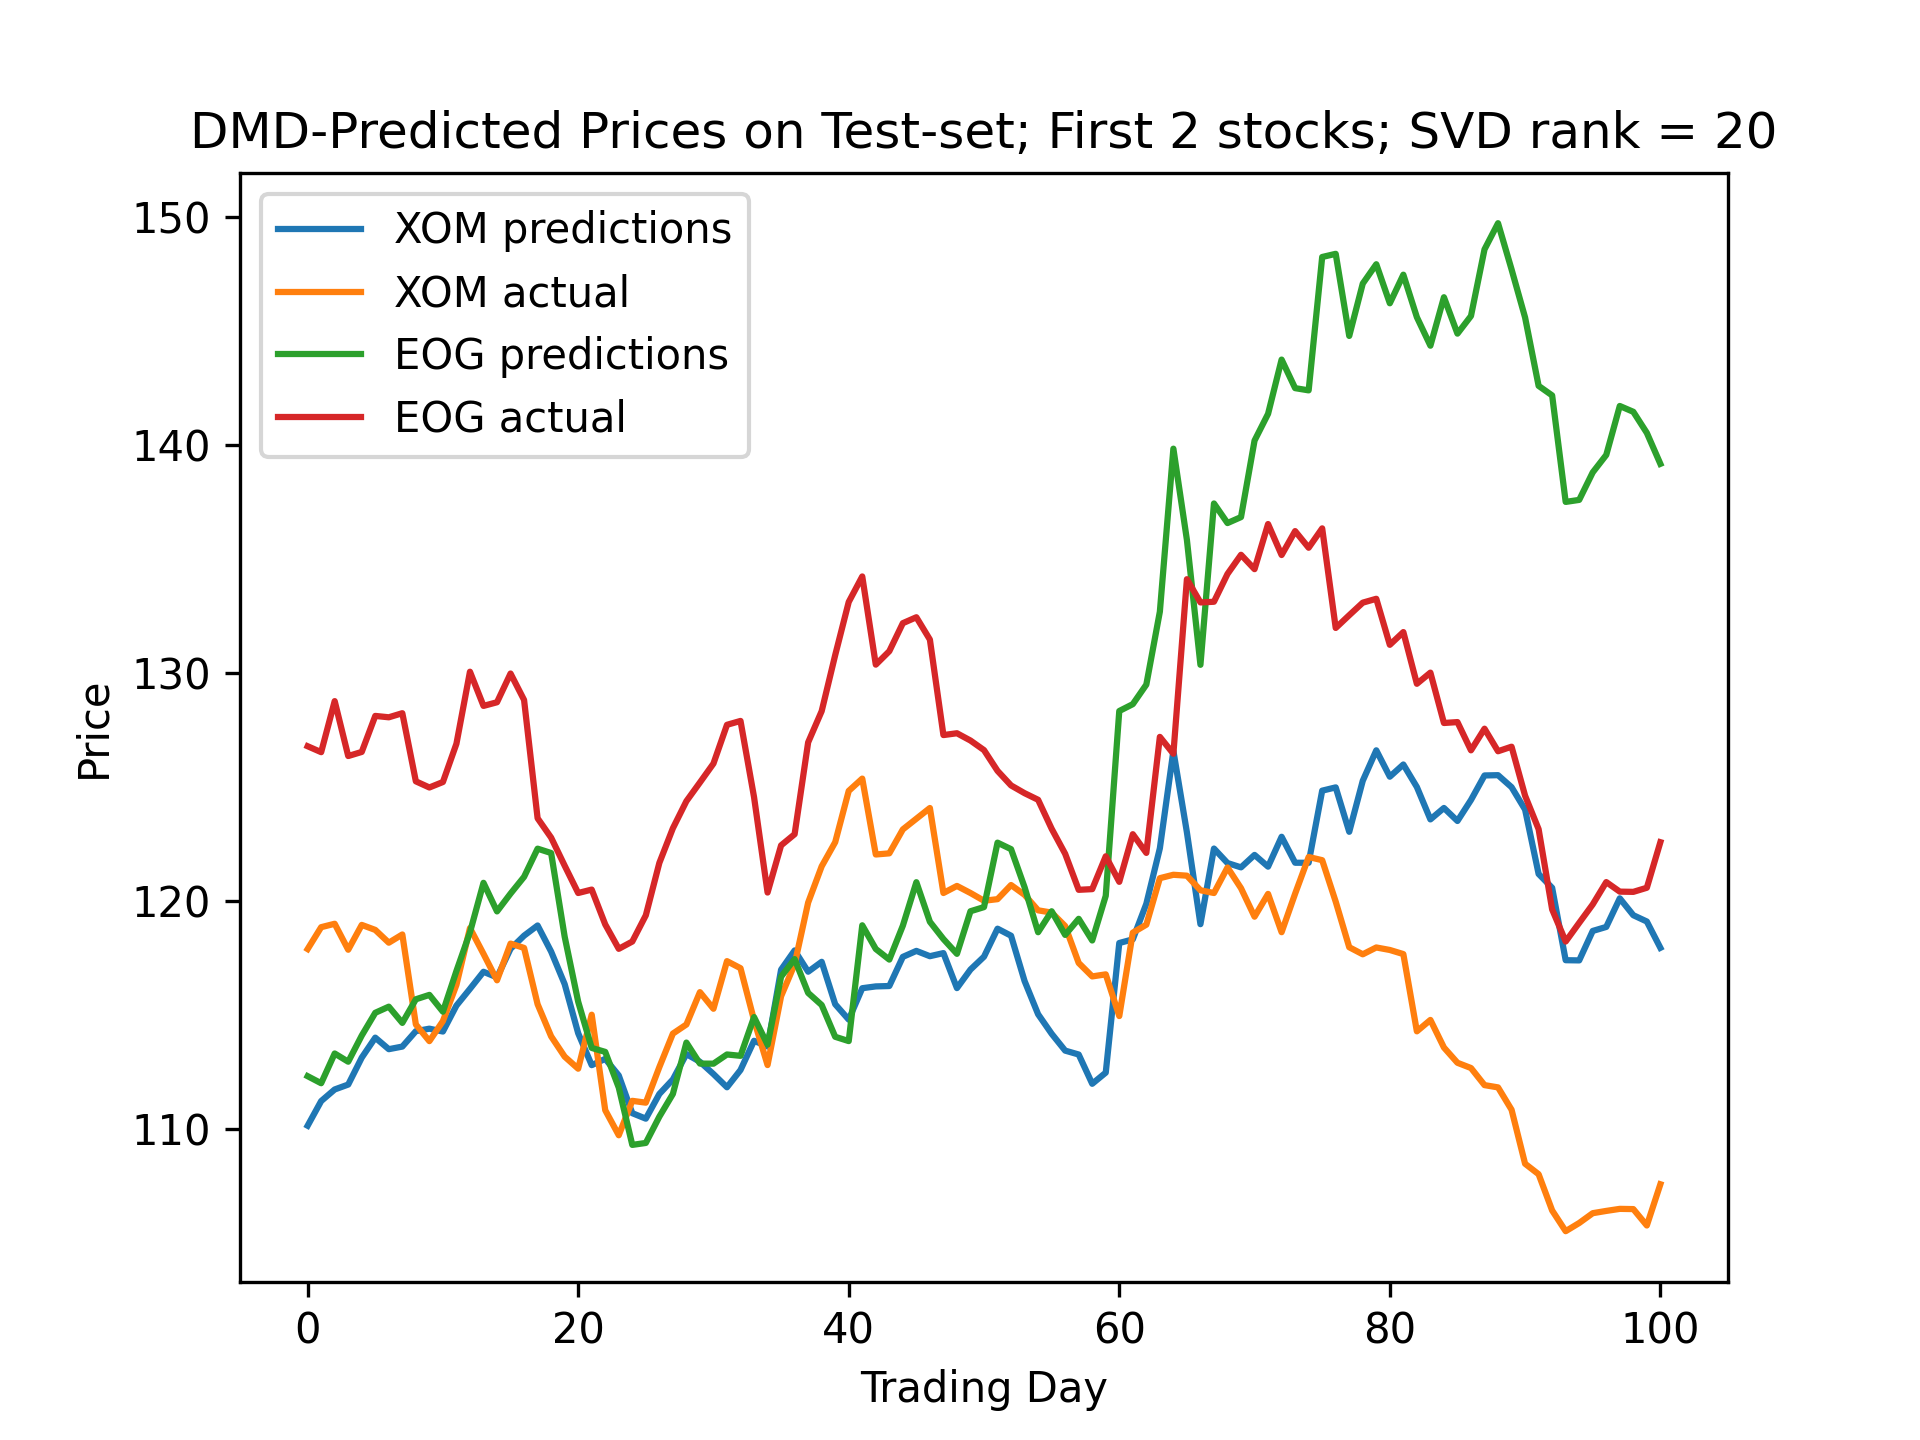
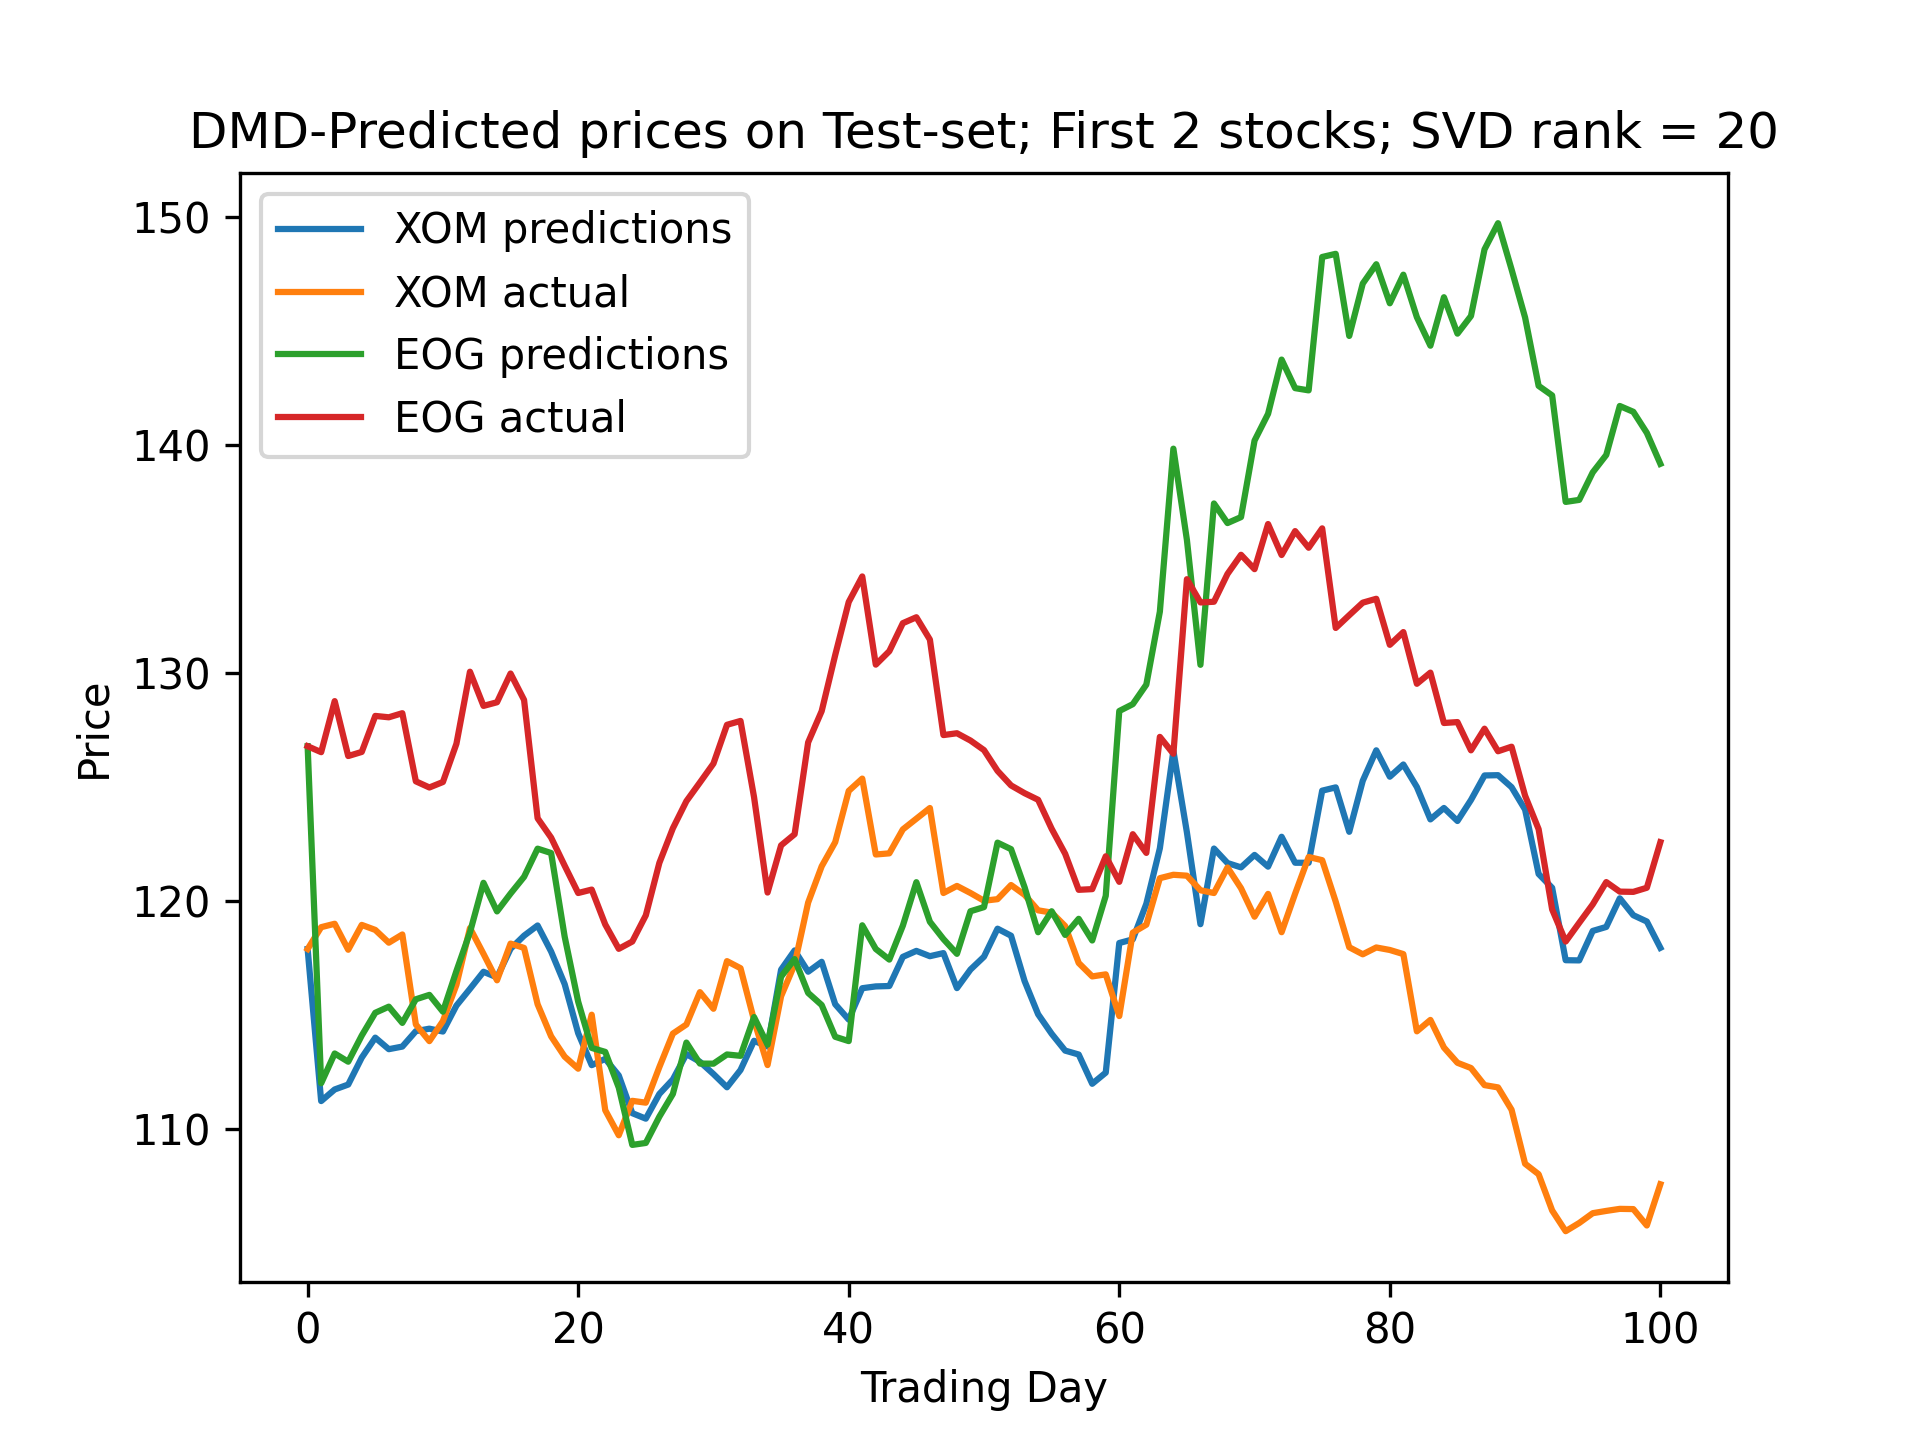
refactor dmd code

diff --git a/DMD.py b/DMD.py
@@ -92,43 +92,6 @@ def train_test_split(X, train_percentage=0.95):
     X_test = X[:, T_train:]
     return X_train, X_test, T_train, T_test
 
-# def train_test_windows(X, T_window):
-#     '''
-#     divide entire time series into equalsized windows (except the last window which may not be of equal size)
-#     where each window alternates between being assigned as a training and test
-
-#     X : (N, T_tot) numpy array
-#     T_window : int, desired length of each window (the last window of testing may be shorter than T_window)
-
-#     returns:
-#         X_train_windows : list of (N, T_train) numpy arrays
-#         X_test_windows : list of (N, T_test) numpy arrays
-#         T_train_windows : (len:num_windows) list of ints (lengths of the corresponding training windows)
-#         T_test_windows : (len:num_windows) list of ints (lengths of the corresponding test window)
-#     '''
-#     # LOGIC HERE IS NOT RIGHT; NEED TO FIX
-#     N, T_tot = X.shape
-#     num_full_windows = T_tot // T_window
-#     last_additional_window_length = T_tot - num_full_windows * T_window
-#     X_train_windows = []
-#     X_test_windows = []
-#     T_train_windows = []
-#     T_test_windows = []
-#     for i in range(num_full_windows-1):
-#         X_train_windows.append(X[:, i*T_window:(i+1)*T_window])
-#         X_test_windows.append(X[:, (i+1)*T_window:(i+2)*T_window])
-#         T_train_windows.append(T_window)
-#         T_test_windows.append(T_window)
-#     # add the last guaranteed full window which would be a train set
-#     X_train_windows.append(X[:, (num_full_windows-1)*T_window:])
-#     T_train_windows.append(T_window)
-#     # deal with remainder if nonzero, which would be the final test set
-#     if last_additional_window_length != 0:
-#         X_test_windows.append(X[:, -last_additional_window_length:])
-#         T_test_windows.append(last_additional_window_length)
-
-#     return X_train_windows, X_test_windows, T_train_windows, T_test_windows
-
 
 ######### manual dmd algorithm implementation ###############################
 
@@ -154,7 +117,6 @@ def DMD_manual(snapshots, svd_rank):
     U, S, VT = np.linalg.svd(X, full_matrices=True)
     # U and the Hermitian transpose of VT are 2D arrays with orthonormal columns and S is a 1D array of Y's singular values
     # when X has shape (N, M-1), if full_matrices=True, U and VT have the shapes (N, N) and (M-1, M-1)
-
 
     # compute the truncated SVD of X: get the first r columns of U, the upperleft rxr block, the first r rows of VT
     U_trunc = U[:, :svd_rank]
@@ -184,9 +146,9 @@ def DMD_manual(snapshots, svd_rank):
     Lambda, W = np.linalg.eig(Atilde)
     # column W[:,i] is the eigenvector w corresponding to the eigenvalue Lambda[i].
 
-    # check if there are complex values in Lambda
-    if np.any(np.iscomplex(Lambda)):
-        print("There are complex values in Lambda")
+    # # check if there are complex values in Lambda
+    # if np.any(np.iscomplex(Lambda)):
+    #     print("There are complex values in Lambda")
     
     if np.any(np.iscomplex(Abar)):
         print("There are complex values in Abar")
@@ -207,6 +169,101 @@ def DMD_manual(snapshots, svd_rank):
     # column DMD_modes[:,i] is the dynamic mode corresponding to the eigenvalue Lambda[i].
     return Abar, Lambda, DMD_modes
 
+
+
+def DMD_fit_predict_evaluate(all_train_snapshots, test_snapshots, chosen_rank, dmd_fitting_window_length, prices_as_state=True, num_stocks_plot=2, plot_DMD_modes_summary=False):
+    """
+    all_train_snapshots: (N, T_train_all) numpy array, total training set available
+        (only [T_train_all - dmd_fitting_window_length] number of these snapshots are used for actual training)
+    
+    test_snapshots: (N, T_test) numpy array, test set
+    
+    chosen_rank: int, the number of singular values to keep in the truncated SVD of the actual training snapshots
+    
+    dmd_fitting_window_length: int, the number of snapshots to use for the actual training
+    
+    prices_as_state: bool, whether to use prices as the state variable for the DMD model; if false, indicates returns are used
+    
+    num_stocks_plot: int, the number of stocks to show in the test predictions plots
+    
+    plot_DMD_modes_summary: bool, whether to plot the summary of the key spatiotemporal modes using PyDMD
+    """
+    if prices_as_state:
+        snapshots_quantity_name= 'prices'
+    else:
+        snapshots_quantity_name = 'ret'
+
+    N, T_train_all = all_train_snapshots.shape
+    _, T_test = test_snapshots.shape # number of snapshots in the test set
+
+    T_train = T_train_all - dmd_fitting_window_length # number of snapshots used for actual training
+
+    train_snapshots = all_train_snapshots[:, -dmd_fitting_window_length:] # set used for actual training
+
+    if plot_DMD_modes_summary:
+        # Build an exact DMD model with <chosen_rank> spatiotemporal modes
+        pydmd_model = DMD(svd_rank=chosen_rank, exact=True)
+        # Fit the DMD model
+        pydmd_model.fit(train_snapshots)
+        # Plot a summary of the key spatiotemporal modes
+        plot_summary(pydmd_model, figsize=(12,9), title_fontsize=8, label_fontsize=6, max_sval_plot=50)
+    
+    # compute the DMD modes manually
+    Abar, Lambda, DMD_modes = DMD_manual(train_snapshots, chosen_rank)
+
+    # create input snapshots matrix for test set
+    test_input_snapshots = test_snapshots[:, :-1] # shape: (N, T_test-1)
+    # create input snapshots matrix for train set
+    train_input_snapshots = train_snapshots[:, :-1] # shape: (N, T_train-1)
+
+    # make predictions on test set
+    # one_step_ahead_predicted_test_snapshots = pydmd_model.predict(test_input_snapshots)
+    test_one_step_ahead_predicted_snapshots = Abar @ test_input_snapshots
+    # make predictions on train set
+    train_one_step_ahead_predicted_snapshots = Abar @ train_input_snapshots
+
+    # check if there are complex valued predictions
+    if np.any(np.iscomplex(test_one_step_ahead_predicted_snapshots)):
+        print("There are complex valued predictions for test set")
+    if np.any(np.iscomplex(train_one_step_ahead_predicted_snapshots)):
+        print("There are complex valued predictions for train set")
+
+    if num_stocks_plot > 0:
+        # concatenate the first test snapshot to the beginning of the predicted test snapshots 
+        test_predictions_with_inital = np.concatenate((test_snapshots[:,0:1], test_one_step_ahead_predicted_snapshots), axis=1) # shape: (N, T_test), only for plotting purposes
+
+        # plot the predicted test snapshots
+        fig, ax = plt.subplots()
+        for i in range(num_stocks_plot):
+            ax.plot(np.arange(T_test), test_predictions_with_inital.T[:,i], label=f'{tickers[i]} predictions') # predictions
+            ax.plot(np.arange(T_test), test_snapshots.T[:,i], label=f'{tickers[i]} actual') # actual
+        ax.set_title(f'DMD-Predicted {snapshots_quantity_name} on Test-set; First {num_stocks_plot} stocks; SVD rank = {chosen_rank}')
+        ax.set_xlabel('Trading Day')
+        if prices_as_state:
+            ax.set_ylabel('Price')
+        else:
+            ax.set_ylabel('Return')
+        ax.legend()
+        fig.savefig(f'figures/ExactDMD_{snapshots_quantity_name}_svdrank{chosen_rank}_{portfolio_name}_testsetpredictions_fittingwindowlen{dmd_fitting_window_length}.png', dpi=300)
+        plt.close(fig)
+
+    print("svdrank: ", chosen_rank)
+    print("dmd_fitting_window_length: ", dmd_fitting_window_length)
+
+    # compute goodness of fit metrics on the training data and loss against the test data
+    # compute mean squared error
+    MSE_training = np.mean((train_one_step_ahead_predicted_snapshots - train_snapshots[:,1:])**2)
+    MSE_test = np.mean((test_one_step_ahead_predicted_snapshots - test_snapshots[:,1:])**2)
+    RMSE_training = np.sqrt(MSE_training)
+    RMSE_test = np.sqrt(MSE_test)
+    print(f'RMSE_training: {RMSE_training}, RMSE_test: {RMSE_test}')
+
+    # mean absolute error (MAE)
+    MAE_training = np.mean(np.abs(train_one_step_ahead_predicted_snapshots - train_snapshots[:,1:]))
+    MAE_test = np.mean(np.abs(test_one_step_ahead_predicted_snapshots - test_snapshots[:,1:]))
+    print(f'MAE_training: {MAE_training}, MAE_test: {MAE_test}')
+
+                
 
 ################################################ MAIN SCRIPT ####################################################
 
@@ -242,138 +299,19 @@ P_train, P_test, T_train_P, T_test_P = train_test_split(P)
 logP_train, logP_test, T_train_logP, T_test_logP = train_test_split(logP)
 
 
-###### SCRIPT SETTINGS #######################################################
+############# RUN DMD ALGORITHM #####################
 
-chosen_rank = 20
-n = 2
+num_stocks_plot = 0 # or 2
 
-# use only last 100 points in training data
-#dmd_fitting_window_length = 600
+chosen_rank_list = [5, 20]
+dmd_fitting_window_length_list = [100, 600, P_train.shape[1]] # use only last 100 or 600 points in training data or use all training data
 
-# # or use all training data
-_, dmd_fitting_window_length = P_train.shape
-
-
-
-######### try prices snapshots DMD #########################################################
-
-
-#singularvals_prices_filename = f'singularvals_{adjPrices_file_path.split('.npy')[0]}.png' 
-#U_prices, S_prices, VT_prices, trunc_r_prices, P_denosied_if_noised = SVD_and_truncation_rank(P, singularvals_prices_filename)
-#print("trunc_r_prices: ", trunc_r_prices)
-
-# Build an exact DMD model with <chosen_rank> spatiotemporal modes
-dmd_prices = DMD(svd_rank=chosen_rank, exact=True)
-# Fit the DMD model
-assert P_train[:,-dmd_fitting_window_length:].shape == (N, dmd_fitting_window_length), "Error: shape of P_train[:,-dmd_fitting_window_length:] is not (N, dmd_fitting_window_length)"
-dmd_prices.fit(P_train[:,-dmd_fitting_window_length:])
-# Plot a summary of the key spatiotemporal modes
-plot_summary(dmd_prices, figsize=(12,9), title_fontsize=8, label_fontsize=6, max_sval_plot=50)
-
-# compute the DMD modes manually
-Abar_prices, Lambda_prices, DMD_modes_prices = DMD_manual(P_train[:,-dmd_fitting_window_length:], chosen_rank)
-
-# create input snapshots matrix for test set
-P_test_input = P_test[:, :-1]
-# concatenate the final column of P_train to the leftmost column position in P_test_input
-P_test_input = np.concatenate((P_train[:,-1:], P_test_input), axis=1)
-
-# Make predictions on test set
-# P_predicted = dmd_prices.predict(P_test) # this is incorrect!
-# P_predicted = dmd_prices.predict(P_test_input)
-
-
-# make test predictions
-P_predicted = Abar_prices @ P_test_input
-
-# check if there are complex values in P_predicted
-if np.any(np.iscomplex(P_predicted)):
-    print("There are complex values in P_predicted")
-
-# plot the predicted test prices
-fig, ax = plt.subplots()
-for i in range(n):
-    ax.plot(np.arange(T_test_P), P_predicted.T[:,i], label=f'{tickers[i]} predictions') # predictions
-    ax.plot(np.arange(T_test_P), P_test.T[:,i], label=f'{tickers[i]} actual') # actual
-ax.set_title(f'DMD-Predicted Prices on Test-set; First {n} stocks; SVD rank = {chosen_rank}')
-ax.set_xlabel('Trading Day')
-ax.set_ylabel('Price')
-ax.legend()
-fig.savefig(f'figures/ExactDMD_prices_svdrank{chosen_rank}_{portfolio_name}_testsetpredictions_fittingwindowlen{dmd_fitting_window_length}.png', dpi=300)
-plt.close(fig)
-
-# compute goodness of fit metrics on the training data and loss of the simulation against the test data
-# compute mean squared error
-MSE_training = np.mean((P_predicted - P_test)**2)
-MSE_test = np.mean((P_predicted - P_test)**2)
-RMSE_training = np.sqrt(MSE_training)
-RMSE_test = np.sqrt(MSE_test)
-print(f'RMSE_training: {RMSE_training}, RMSE_test: {RMSE_test}')
-
-# mean absolute error (MAE)
-MAE_training = np.mean(np.abs(P_predicted - P_test))
-MAE_test = np.mean(np.abs(P_predicted - P_test))
-print(f'MAE_training: {MAE_training}, MAE_test: {MAE_test}')
-
-
-
-
-# # ######### try returns snapshots DMD #########################################################
-
-
-#singularvals_returns_filename = f'singularvals_{returns_file_path.split('.npy')[0]}.png' 
-#U_returns, S_returns, VT_returns, trunc_r_returns, Y_denosied_if_noised = SVD_and_truncation_rank(Y, singularvals_returns_filename)
-#print("trunc_r_returns: ", trunc_r_returns)
-
-# Build an exact DMD model with <chosen_rank> spatiotemporal modes
-dmd_returns = DMD(svd_rank=chosen_rank, exact=True)
-# Fit the DMD model
-dmd_returns.fit(Y_train[:,-dmd_fitting_window_length:])
-# Plot a summary of the key spatiotemporal modes
-plot_summary(dmd_returns, figsize=(12,9), title_fontsize=8, label_fontsize=6, max_sval_plot=50)
-
-# compute the DMD modes manually
-Abar_rets, Lambda_rets, DMD_modes_rets = DMD_manual(Y_train[:,-dmd_fitting_window_length:], chosen_rank)
-
-# create input snapshots matrix for test set
-Y_test_input = Y_test[:, :-1]
-# concatenate the final column of Y_train to the leftmost column position in Y_test_input
-Y_test_input = np.concatenate((Y_train[:,-1:], Y_test_input), axis=1)
-
-# Make predictions on test set
-# Y_predicted = dmd_returns.predict(Y_test) # this is incorrect!
-# Y_predicted = dmd_returns.predict(Y_test_input)
-
-# make test predictions
-Y_predicted = Abar_rets @ Y_test_input
-
-
-# check if there are complex values in Y_predicted
-if np.any(np.iscomplex(Y_predicted)):
-    print("There are complex values in Y_predicted")
-
-
-# plot the predicted test returns
-fig, ax = plt.subplots()
-for i in range(n):
-    ax.plot(np.arange(T_test_Y), Y_predicted.T[:,i], label=f'{tickers[i]} predictions') # predictions
-    ax.plot(np.arange(T_test_Y), Y_test.T[:,i], label=f'{tickers[i]} actual') # actual
-ax.set_title(f'DMD-Predicted Returns on Test-set; First {n} stocks; SVD rank = {chosen_rank}')
-ax.set_xlabel('Trading Day')
-ax.set_ylabel('Return')
-ax.legend()
-fig.savefig(f'figures/ExactDMD_ret_svdrank{chosen_rank}_{portfolio_name}_testsetpredictions_fittingwindowlen{dmd_fitting_window_length}.png', dpi=300)
-plt.close(fig)
-
-# compute goodness of fit metrics on the training data and loss of the simulation against the test data
-# compute mean squared error
-MSE_training = np.mean((Y_predicted - Y_test)**2)
-MSE_test = np.mean((Y_predicted - Y_test)**2)
-# root mean squared error (RMSE)
-RMSE_training = np.sqrt(MSE_training)
-RMSE_test = np.sqrt(MSE_test)
-print(f'RMSE_training: {RMSE_training}, RMSE_test: {RMSE_test}')
-# mean absolute error (MAE)
-MAE_training = np.mean(np.abs(Y_predicted - Y_test))
-MAE_test = np.mean(np.abs(Y_predicted - Y_test))
-print(f'MAE_training: {MAE_training}, MAE_test: {MAE_test}')
+for chosen_rank in chosen_rank_list:
+    for dmd_fitting_window_length in dmd_fitting_window_length_list:
+        # try prices snapshots 
+        print("Trying prices snapshots DMD...")
+        DMD_fit_predict_evaluate(P_train, P_test, chosen_rank, dmd_fitting_window_length, prices_as_state=True, num_stocks_plot=num_stocks_plot, plot_DMD_modes_summary=False)
+        # try returns snapshots 
+        print("Trying returns snapshots DMD...")
+        DMD_fit_predict_evaluate(Y_train, Y_test, chosen_rank, dmd_fitting_window_length, prices_as_state=False, num_stocks_plot=num_stocks_plot, plot_DMD_modes_summary=False)
+        print("-------------------------------------------")
